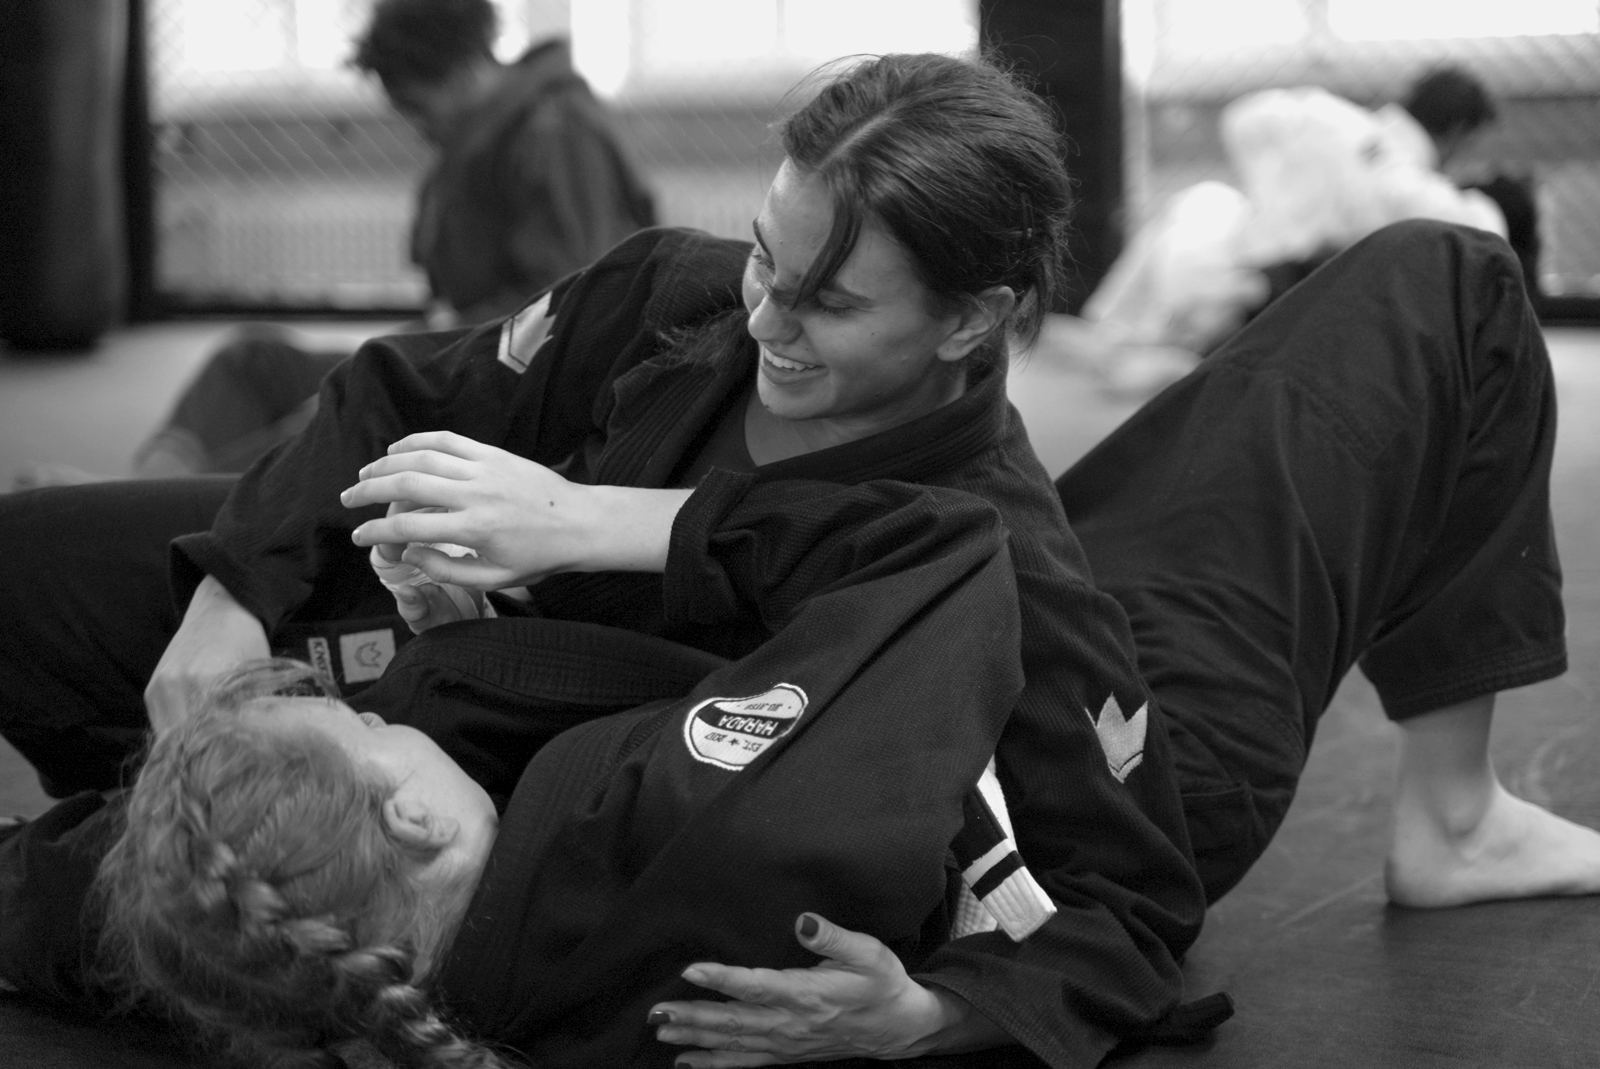
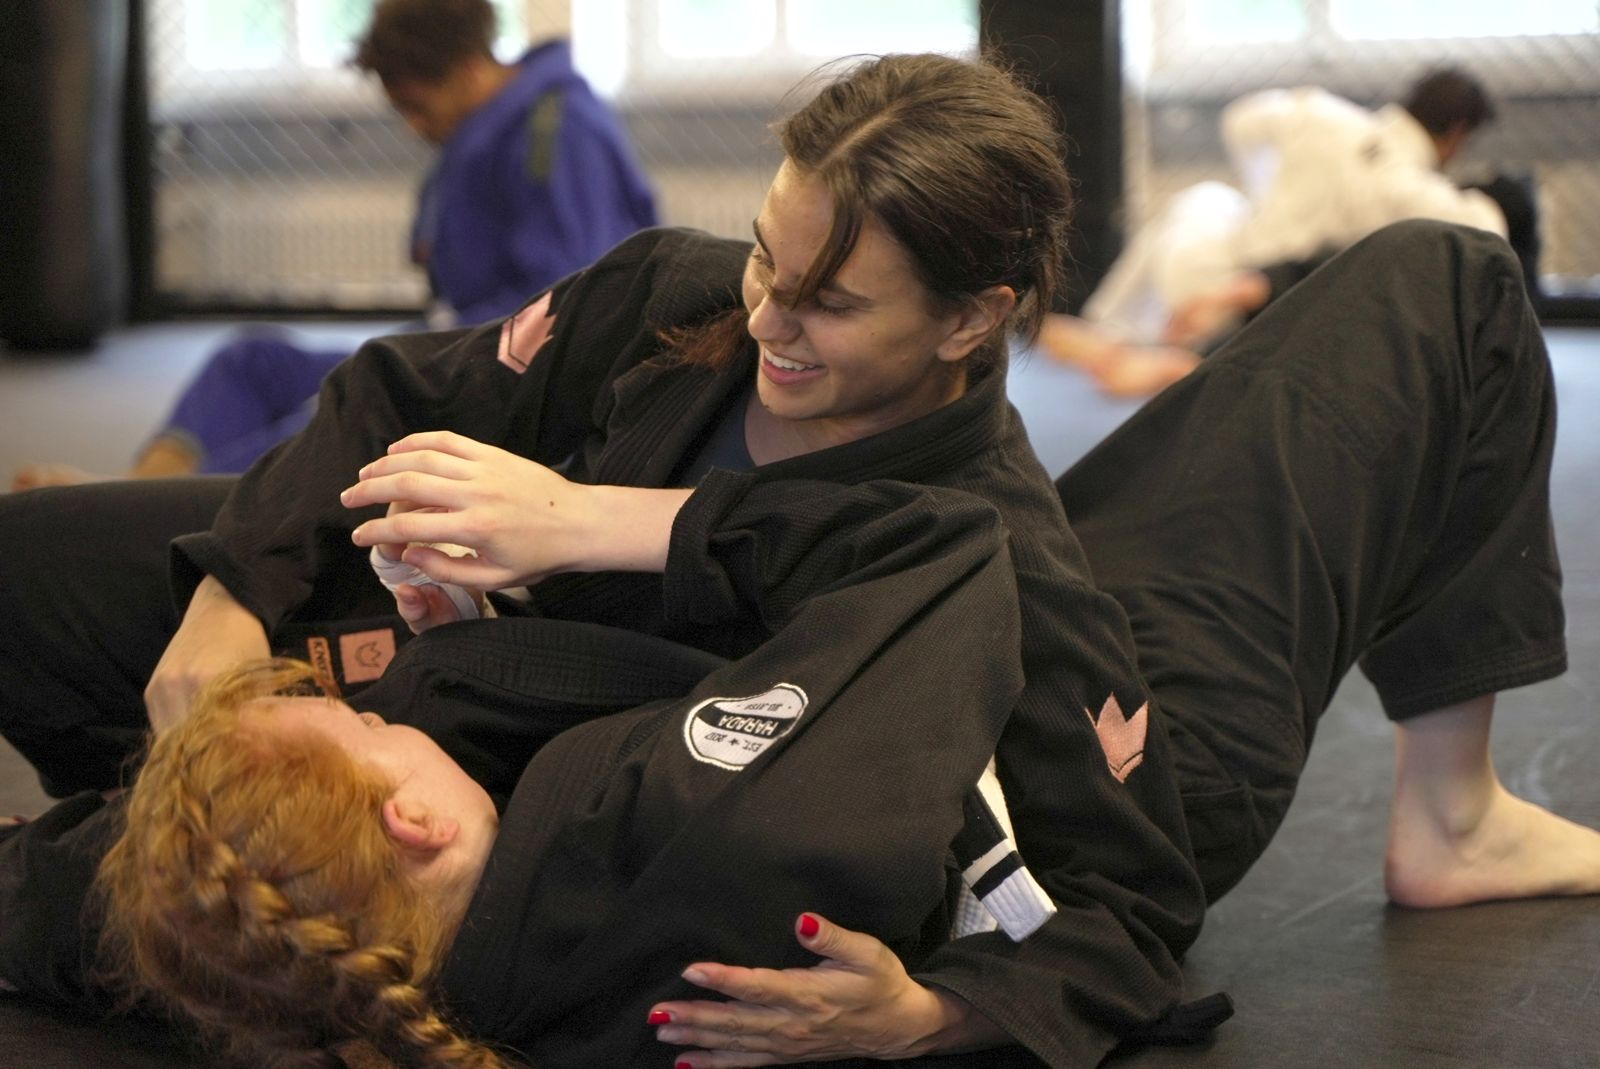
All photos in color, community photo as compact strip between steps and form

diff --git a/probetraining/index.html b/probetraining/index.html
@@ -31,7 +31,7 @@ h1,h2,h3{font-weight:800;text-transform:uppercase;line-height:.95;letter-spacing
 @keyframes rollh{60%{opacity:1;transform:translateX(5px) rotate(1.5deg)}100%{opacity:1;transform:none}}
 @keyframes rise{60%{opacity:1;transform:translateY(-4px)}100%{opacity:1;transform:none}}
 .photo{position:relative;background:#14120e;overflow:hidden}
-.photo img{width:100%;height:100%;object-fit:cover;object-position:50% 22%;filter:grayscale(1) contrast(1.08) brightness(.92);transition:transform 6s ease}
+.photo img{width:100%;height:100%;object-fit:cover;object-position:50% 22%;filter:contrast(1.04) brightness(.97);transition:transform 6s ease}
 .photo.vis img{transform:scale(1.05)}
 .photo .cap{position:absolute;left:var(--mx);bottom:16px;font-size:11px;letter-spacing:2.5px;text-transform:uppercase;color:var(--gold);z-index:2}
 nav{position:absolute;top:0;left:0;right:0;z-index:60;display:flex;justify-content:space-between;align-items:center;padding:18px var(--mx);transition:background .3s,padding .3s}
@@ -143,7 +143,7 @@ nav{gap:14px}
 .gicol li{list-style:none;color:var(--grey);font-size:15px;padding-left:18px;position:relative;margin-bottom:10px}
 .gicol li:before{content:"";position:absolute;left:0;top:9px;width:8px;height:3px;background:var(--gold)}
 .ginote{padding:26px var(--mx);color:var(--grey);font-size:15px}
-.formsec{margin-top:110px;background:#0d0c0a;border-top:1px solid var(--hair);border-bottom:1px solid var(--hair);padding:84px 0}
+.formsec{margin-top:0;background:#0d0c0a;border-top:1px solid var(--hair);border-bottom:1px solid var(--hair);padding:84px 0}
 .formgrid{display:grid;grid-template-columns:1fr;gap:56px;padding:0 var(--mx);max-width:1060px;margin:0 auto}
 @media(min-width:1100px){.formgrid{grid-template-columns:1fr 480px;justify-content:space-between}}
 .formgrid .left h2{font-size:clamp(34px,5vw,60px)}
@@ -244,6 +244,8 @@ section.deep{background:#12100b}
 .ambientsec{position:relative;overflow:hidden}
 .ambient{position:absolute;inset:0;width:100%;height:100%;object-fit:cover;object-position:60% 22%;opacity:.12;pointer-events:none}
 .ambientsec > *:not(.ambient){position:relative}
+.photostrip{height:clamp(220px,34vh,380px)}
+.photostrip img{object-position:50% 30%}
 </style>
 </head>
 <body>
@@ -302,8 +304,7 @@ Technoparkstrasse 3, Winterthur
 </div>
 </section>
 
-<section class="chapter deep ambientsec" id="ablauf">
-<img class="ambient" src="../assets/reviews-bg.jpg" alt="" aria-hidden="true">
+<section class="chapter deep" id="ablauf">
 <div class="chaphead">
 <svg class="chapbolt bolt bolt-draw" viewBox="30 12 40 76" preserveAspectRatio="xMidYMid meet" aria-hidden="true"><path d="M50.4 16.4 L37.4 50"/><path d="M56.7 16.4 L43.7 50"/><path d="M62.9 16.4 L37 83.5"/><path d="M56.2 50.1 L43.3 83.5"/></svg>
 <div class="idx rev">DEIN START</div>
@@ -317,6 +318,8 @@ Technoparkstrasse 3, Winterthur
 <div class="steprow rev"><div class="n numpunch">03</div><h3>Dein erstes Training</h3><p>Komm vorbei und roll mit. Leihausrüstung ist da – du brauchst nur Sportkleidung.</p></div>
 </div>
 </section>
+
+<div class="photo rev photostrip"><img src="../assets/reviews-bg.jpg" alt="Training bei IMPACT Winterthur" loading="lazy"><div class="cap">IMPACT Winterthur</div></div>
 
 <section class="formsec" id="anmelden">
 <div class="formgrid">

diff --git a/trial/index.html b/trial/index.html
@@ -31,7 +31,7 @@ h1,h2,h3{font-weight:800;text-transform:uppercase;line-height:.95;letter-spacing
 @keyframes rollh{60%{opacity:1;transform:translateX(5px) rotate(1.5deg)}100%{opacity:1;transform:none}}
 @keyframes rise{60%{opacity:1;transform:translateY(-4px)}100%{opacity:1;transform:none}}
 .photo{position:relative;background:#14120e;overflow:hidden}
-.photo img{width:100%;height:100%;object-fit:cover;object-position:50% 22%;filter:grayscale(1) contrast(1.08) brightness(.92);transition:transform 6s ease}
+.photo img{width:100%;height:100%;object-fit:cover;object-position:50% 22%;filter:contrast(1.04) brightness(.97);transition:transform 6s ease}
 .photo.vis img{transform:scale(1.05)}
 .photo .cap{position:absolute;left:var(--mx);bottom:16px;font-size:11px;letter-spacing:2.5px;text-transform:uppercase;color:var(--gold);z-index:2}
 nav{position:absolute;top:0;left:0;right:0;z-index:60;display:flex;justify-content:space-between;align-items:center;padding:18px var(--mx);transition:background .3s,padding .3s}
@@ -143,7 +143,7 @@ nav{gap:14px}
 .gicol li{list-style:none;color:var(--grey);font-size:15px;padding-left:18px;position:relative;margin-bottom:10px}
 .gicol li:before{content:"";position:absolute;left:0;top:9px;width:8px;height:3px;background:var(--gold)}
 .ginote{padding:26px var(--mx);color:var(--grey);font-size:15px}
-.formsec{margin-top:110px;background:#0d0c0a;border-top:1px solid var(--hair);border-bottom:1px solid var(--hair);padding:84px 0}
+.formsec{margin-top:0;background:#0d0c0a;border-top:1px solid var(--hair);border-bottom:1px solid var(--hair);padding:84px 0}
 .formgrid{display:grid;grid-template-columns:1fr;gap:56px;padding:0 var(--mx);max-width:1060px;margin:0 auto}
 @media(min-width:1100px){.formgrid{grid-template-columns:1fr 480px;justify-content:space-between}}
 .formgrid .left h2{font-size:clamp(34px,5vw,60px)}
@@ -244,6 +244,8 @@ section.deep{background:#12100b}
 .ambientsec{position:relative;overflow:hidden}
 .ambient{position:absolute;inset:0;width:100%;height:100%;object-fit:cover;object-position:60% 22%;opacity:.12;pointer-events:none}
 .ambientsec > *:not(.ambient){position:relative}
+.photostrip{height:clamp(220px,34vh,380px)}
+.photostrip img{object-position:50% 30%}
 </style>
 </head>
 <body>
@@ -302,8 +304,7 @@ Technoparkstrasse 3, Winterthur
 </div>
 </section>
 
-<section class="chapter deep ambientsec" id="ablauf">
-<img class="ambient" src="../assets/reviews-bg.jpg" alt="" aria-hidden="true">
+<section class="chapter deep" id="ablauf">
 <div class="chaphead">
 <svg class="chapbolt bolt bolt-draw" viewBox="30 12 40 76" preserveAspectRatio="xMidYMid meet" aria-hidden="true"><path d="M50.4 16.4 L37.4 50"/><path d="M56.7 16.4 L43.7 50"/><path d="M62.9 16.4 L37 83.5"/><path d="M56.2 50.1 L43.3 83.5"/></svg>
 <div class="idx rev">YOUR START</div>
@@ -317,6 +318,8 @@ Technoparkstrasse 3, Winterthur
 <div class="steprow rev"><div class="n numpunch">03</div><h3>Your first session</h3><p>Come by and roll with us. Loaner gear is ready – all you need is sportswear.</p></div>
 </div>
 </section>
+
+<div class="photo rev photostrip"><img src="../assets/reviews-bg.jpg" alt="Training bei IMPACT Winterthur" loading="lazy"><div class="cap">IMPACT Winterthur</div></div>
 
 <section class="formsec" id="anmelden">
 <div class="formgrid">
